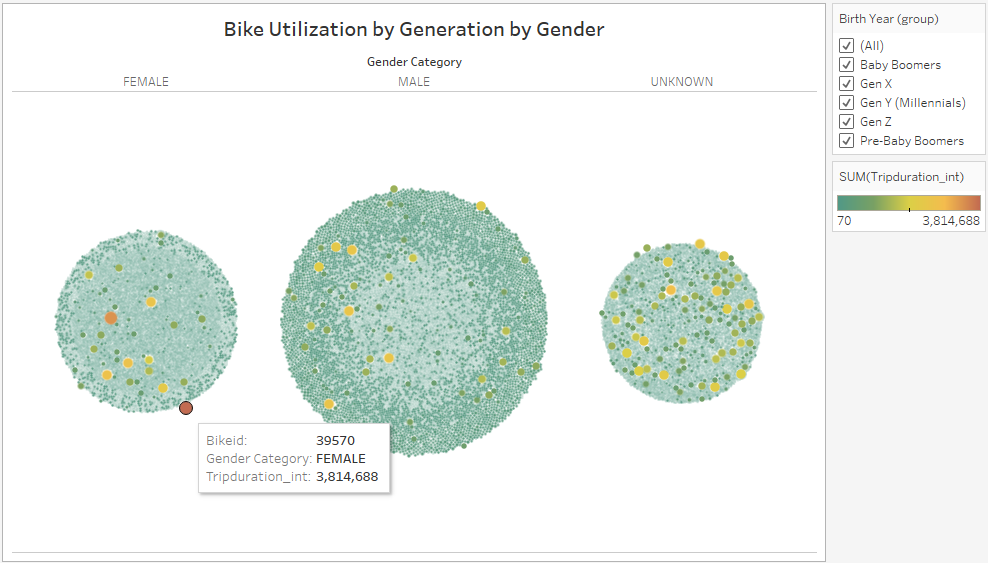
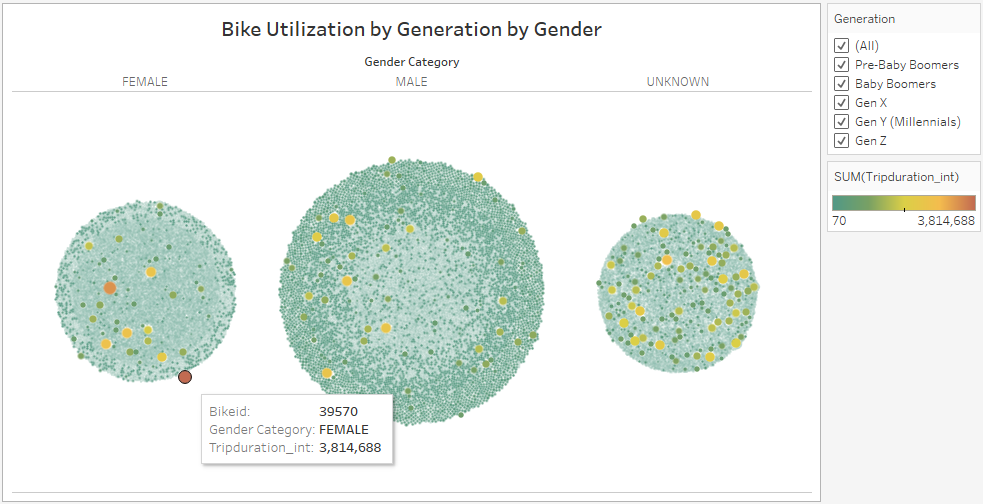
Update README.md and image files

diff --git a/README.md b/README.md
@@ -53,7 +53,7 @@ main branch
 We first reformatted the original csv data by using Python Pandas and then used Tableau to perform in-depth analysis and visualizations. Although I retained all the initial field data when saving the modified DataFrame to a csv file, there were several unique approaches that I used when accomplishing the required visualizations as discussed and highlighted below. Some of the improvement ideas for future analysis were also analyzed and embodied in the Tableau visualization dashboard (<a href="https://public.tableau.com/app/profile/s.tandjoeng/viz/bikesharing_visualizations_16701338840620/NYCCitiBikeStory?publish=yes" target="_blank" title="Link to NYC Citi Bike Story">Bike Sharing Visualizations</a>).
 
 ### Deliverable 1
-We used Python Pandas's `to_datetime()` function to convert the datatype of trip duration data in the original table from **int64** to **datetime64[ns]**, which is a datetime format with nanosecond **[ns]** precision. I double checked the resulting time format by using `datetime.strftime('%H:%M:%S')`. The source code can be referred in [NYC_Citibike_Challenge.ipynb](./NYC_Citibike_Challenge.ipynb) and the first five rows of our modified dataframe table are shown in Fig. 1. Please be kindly informed that the modified csv file, *201908-citibike-tripdata_new.csv.zip*, was too massive to be uploaded to GitHub.
+We used Python Pandas's `to_datetime()` function to convert the datatype of trip duration data in the original table from **int64** to **datetime64[ns]**, which is a datetime format with nanosecond **[ns]** precision. I double checked the resulting time format by using `datetime.strftime('%H:%M:%S')`. The source code can be referred in [NYC_Citibike_Challenge.ipynb](./NYC_Citibike_Challenge.ipynb) and the first five rows of our modified dataframe table are shown in Fig. 1. Please be kindly informed that the modified csv file, *201908-citibike-tripdata_new.csv.zip*, was too massive to be uploaded to a GitHub repo.
 
 ```
 import pandas as pd
@@ -103,12 +103,12 @@ The heatmap visualizations representing the number of bike trips for each type o
 **Fig. 6 User Trips by Gender by Weekday**
 
 ## Summary
-All deliverables have been crafted and analyzed according to the assignment requirements, including code refactoring, quality assurance for ensuring accurate results, more descriptive field labels, better usability, and optimized dashboard performance. I hope users and stakeholders will be able to benefit from our visualizations online <a href="https://public.tableau.com/app/profile/s.tandjoeng/viz/bikesharing_visualizations_16701338840620/NYCCitiBikeStory?publish=yes" target="_blank" title="Link to NYC Citi Bike Story">Bike Sharing Visualizations</a> and explore our analysis results before drawing the final conclusions.
+All deliverables have been crafted and analyzed according to the assignment requirements, including code refactoring, quality assurance for ensuring accurate results, more descriptive field labels, better usability, and optimized dashboard performance. I hope users and stakeholders will be able to benefit from our visualizations online <a href="https://public.tableau.com/app/profile/s.tandjoeng/viz/bikesharing_visualizations_16701338840620/NYCCitiBikeStory?publish=yes" target="_blank" title="Link to NYC Citi Bike Story">Bike Sharing Visualizations</a> and easily explore our analysis summary and story before drawing the final conclusions.
 
 To better understand the demographic of users and which gender or generation groups the bike sharing businesses should target to boost the bike utilization, I further created custom groups based on Birth Year of our users and conducted visualizations with fixed ranges of *Number of Trips* to better crunch the dataset as demonstrated in Fig. 7. The chart and filter we embedded in Fig. 7 was part of my suggestions for future analysis. It significantly helped us understand the demographic of bike sharing users and users' gender gaps at once.
 - More than 80% of users were annual subscribers.
 - Users were approximately 65% male, 25% female, and 10% other genders. Male users were the top users of bike sharing service, including the length of bike utilization, across all generations except for Gen X.
-- Gen Y (Millenials) were the most frequent users overall regardless of gender, though *UNKNOWN* gender users were top in the random customer usertype.
+- Gen Y (Millennials) were the most frequent users overall regardless of gender, though *UNKNOWN* gender users were top in the random customer usertype.
 - *UNKNOWN* gender category was mainly from those users belonged to Gen X because they might have opted for not reporting, though we do not know why Gen X was not providing their gender information in most cases.
 
 ![Fig. 7](./Data/GenerationAndGenderBreakdownPerUsertype.png 'Fig. 7 Generation and Gender Breakdown per Usertype')\
@@ -117,10 +117,10 @@ To better understand the demographic of users and which gender or generation gro
 ![Fig. 8](./Data/BikeUtilizationByGenerationByGender.png 'Fig. 8 Bike Utilization by Generation by Gender')\
 **Fig. 8 Bike Utilization by Generation by Gender**
 
-![Fig. 9](./Data/BikeidToRepair.png 'Fig. 9 Bikeid to Repair')\
-**Fig. 9 Bikeid to Repair**
+![Fig. 9](./Data/BikeidToRepair.png 'Fig. 9 Bikeid due for Repairs')\
+**Fig. 9 Bikeid due for Repairs**
 
-Fig. 8 together with Fig. 7 illustrated great tools that should allow us to draw more solid decisions in terms of demographic trends. Fig. 9 helped us pinpoint which bikeid should be repaired immediately or was beyond repair because the utilization length has exceeded certain safety limits. Users could just hover over the chart to quickly spot certain Bikeid to repair.
+Fig. 8 together with Fig. 7 illustrated great tools that should allow us to draw more solid decisions in terms of demographic trends. Fig. 9 helped us pinpoint which Bikeids should be repaired immediately or was beyond repair because its utilization length has exceeded certain safety criteria. Users could just hover over the chart to quickly spot a specific Bikeid or a group of Bikeids that were due for repairs.
 
 Based on our data analytics and visualizations, to boost revenues we will need to study why non-male users were less likely to use bike sharing service and how to expand accessibility of our bike sharing service to female and other gender groups, for example by providing easily adjustable size/power, assorted color selection, trackable safety apps, or even specialized bike sharing service for female and other gender groups. Providing a few bike options, including a cheaper rental option, might also be the key to be inclusive and better attract Gen Z to become frequent users. As for software app improvement, integrating better Search Engine Optimization (SEO) into the bike sharing service apps, such that different gender and community groups could easily find and access bikes that they will likely use more regularly.
 
